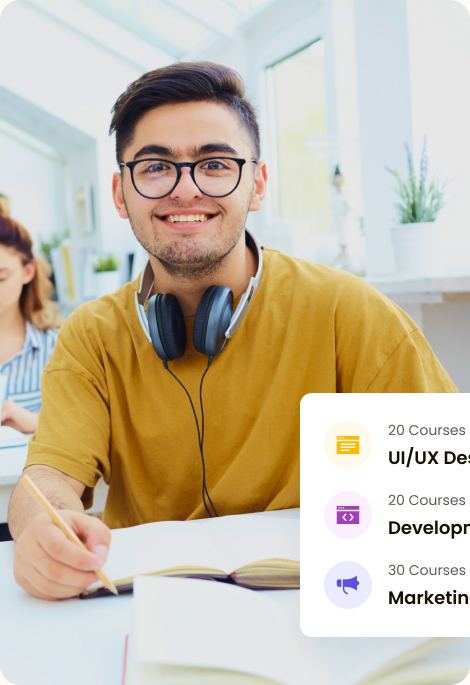
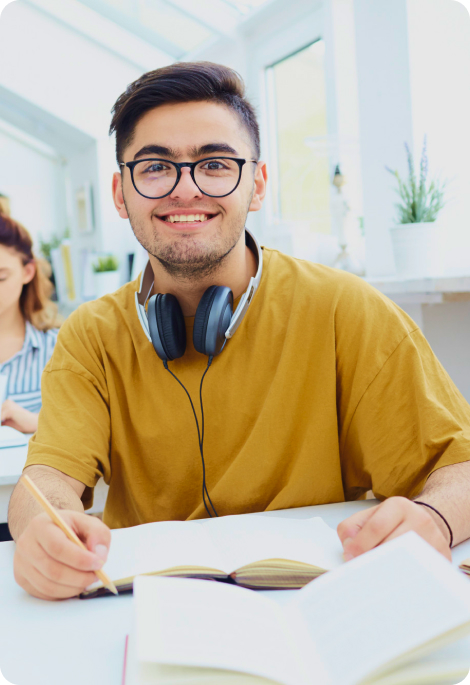
Update hero content

Changed region(s): [[0.6255, 0.5518, 1.0, 0.9504]]

diff --git a/assets/css/style.css b/assets/css/style.css
@@ -101,3 +101,85 @@ class header chỉ duy nhất => nên viết tường minh nhất có thể */
 .header .action{
     margin-left: 49px;
 }
+
+.hero{
+    padding: 56px 0 65px;
+    background: #fcebb8;
+}
+
+.hero .body{
+    display: flex;
+}
+
+.hero .media-block{
+    position: relative;
+    width: 48%;
+}
+
+.hero .content-block{
+    width: 52%;
+}
+
+/* ========== hero left ========== */
+.hero .media-block .img{
+    width: 470px;
+    height: 685px;
+    object-fit: cover;
+    border-radius: 20px;
+}
+
+.hero .hero-summary{
+    width: 270px;
+    position: absolute;
+    bottom: 48px;
+    right: 0;
+    border-radius: 12px;
+    background: #FFF;
+    box-shadow: 0px 16px 32px 0px rgba(0, 0, 0, 0.05);
+}
+
+.hero-summary .item{
+    display: flex;
+    align-items: center;
+}
+
+.hero-summary .item + .item{
+    margin-top: 22px;
+}
+
+.hero-summary .icon{
+    width: 48px;
+    height: 48px;
+    border-radius: 50%;
+    display: flex;
+    justify-content: center;
+    align-items: center;
+    background-color: #fff9e8;
+}
+
+.hero-summary .icon2{
+    background: #fcefff;
+}
+
+.hero-summary .icon3{
+    background-color: #ebeaff;
+}
+
+.hero-summary .info{
+    margin-left: 16px;
+
+}
+
+.hero-summary .label{
+    color: #5F5B53;
+    font-size: 1.4rem;
+    line-height: 1.86; /* 185.714% */
+}
+
+.hero-summary .title{
+    color: #171100;
+    font-size: 1.8rem;
+    line-height: 1.67; /* 166.667% */
+}
+
+/* ========== hero right ========== */

diff --git a/index.html b/index.html
@@ -54,7 +54,7 @@
                 <div class="body">
                     <!-- hero left -->
                     <div class="media-block">
-                        <img src="./assets/img/hero-img.jpg" alt="hero img jpg" class="imga">
+                        <img src="./assets/img/hero-img.jpg" alt="hero img jpg" class="img">
 
                         <div class="hero-summary">
                             <!-- item1 -->
@@ -71,7 +71,7 @@
 
                             <!-- item2 -->
                             <div class="item">
-                                <div class="icon">
+                                <div class="icon icon2">
                                     <img src="./assets/img/Orion_code-window.svg" alt="">
                                 </div>
 
@@ -83,7 +83,7 @@
 
                             <!-- item3 -->
                             <div class="item">
-                                <div class="icon">
+                                <div class="icon icon3">
                                     <img src="./assets/img/Orion_page.svg" alt="">
                                 </div>
 
